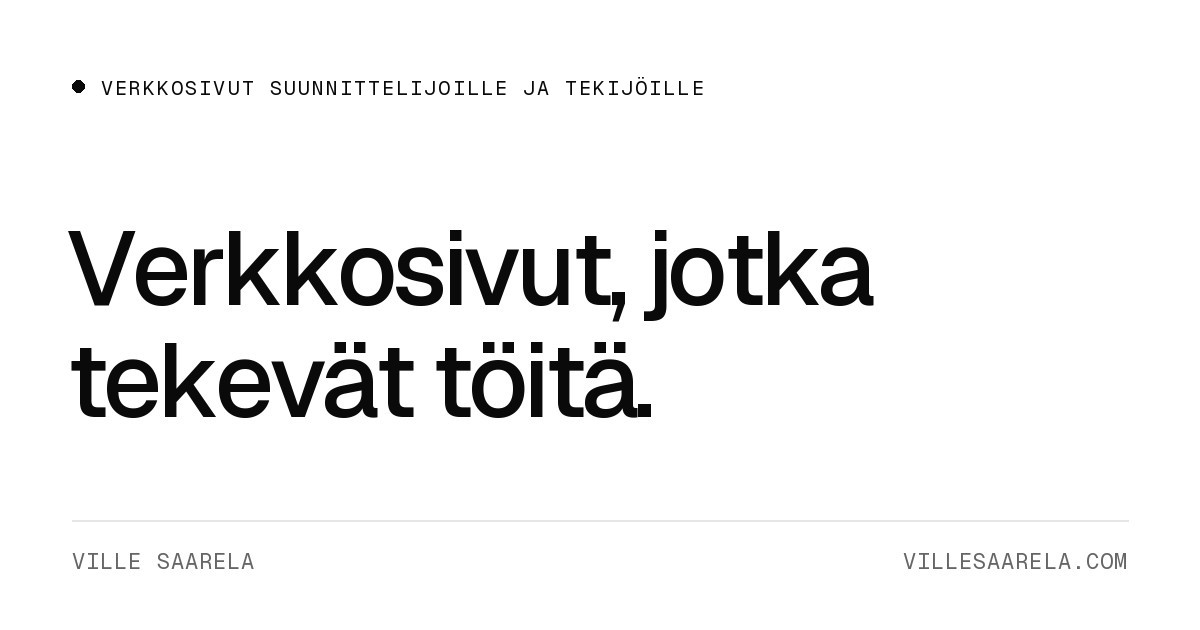
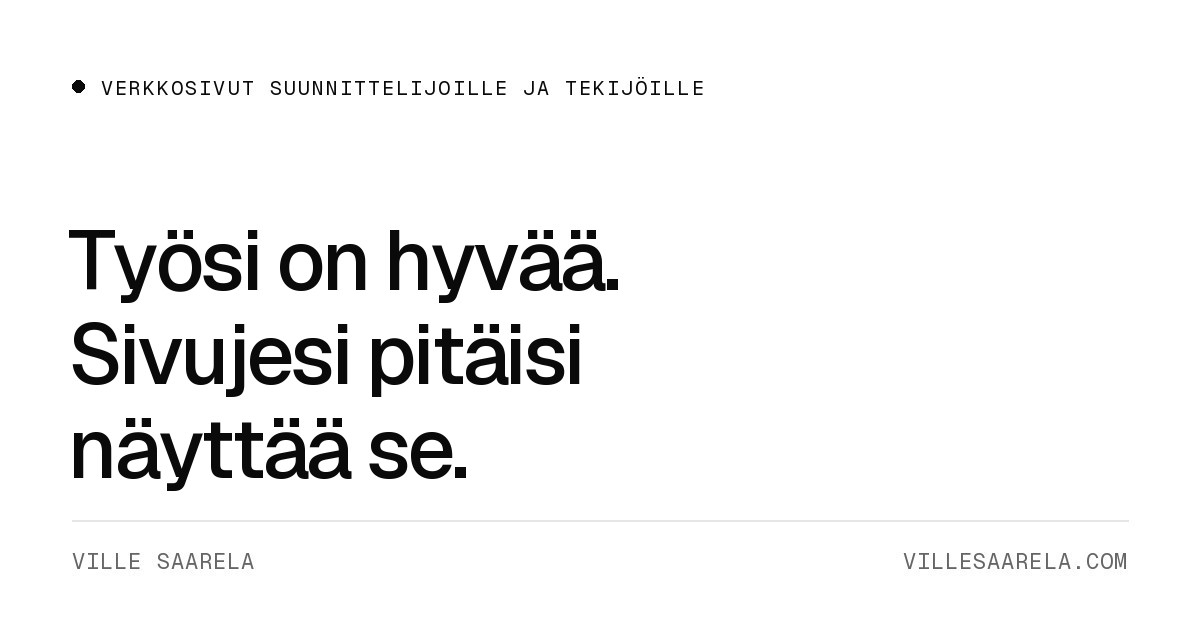
New homepage headline: "Työsi on hyvää. Sivujesi pitäisi näyttää se."
Speaks to designers and makers directly. The share image uses the same
headline.

Claude-Session: https://claude.ai/code/session_01YUi8FNKhUwxqsvjCFjCdqj

Changed region(s): [[0.0617, 0.5127, 0.555, 0.7841], [0.0617, 0.3619, 0.74, 0.5127]]

diff --git a/index.html b/index.html
@@ -101,10 +101,10 @@
   <main id="sisalto">
     <section class="hero wrap" aria-labelledby="hero-title">
       <p class="label status">Otan vastaan uusia projekteja</p>
-      <h1 id="hero-title" class="display lines" aria-label="Verkkosivut, jotka tekevät töitä.">
-        <span class="line" aria-hidden="true"><span>Verkkosivut,</span></span>
-        <span class="line" aria-hidden="true"><span>jotka tekevät</span></span>
-        <span class="line" aria-hidden="true"><span>töitä.</span></span>
+      <h1 id="hero-title" class="display lines" aria-label="Työsi on hyvää. Sivujesi pitäisi näyttää se.">
+        <span class="line" aria-hidden="true"><span>Työsi on hyvää.</span></span>
+        <span class="line" aria-hidden="true"><span>Sivujesi pitäisi</span></span>
+        <span class="line" aria-hidden="true"><span>näyttää se.</span></span>
       </h1>
       <div class="hero-foot">
         <div class="intro">
